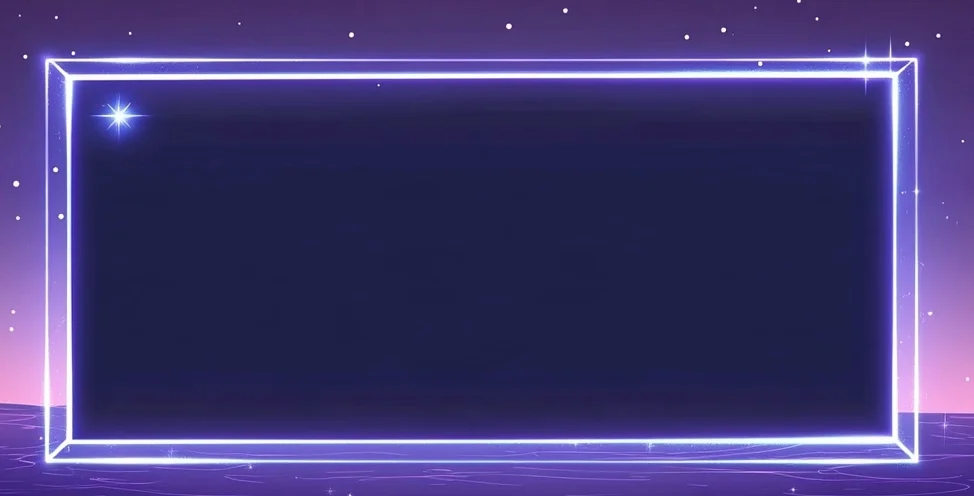
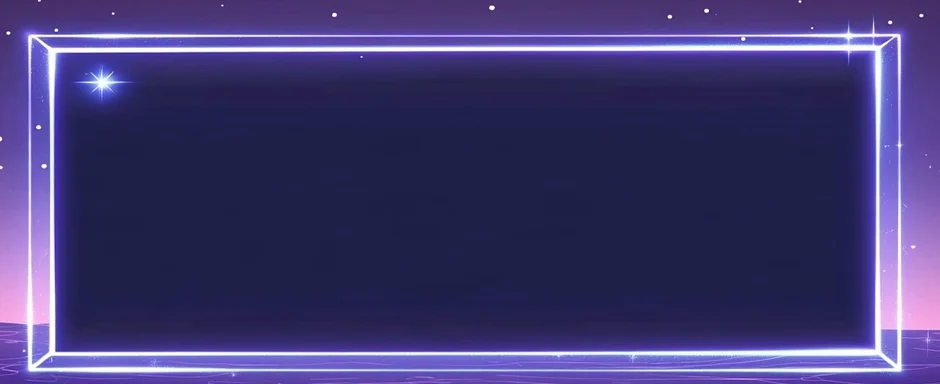
the rare row joins the family shape (Skylar 9/30: 'why does the blue one look so much larger') — every rare glass rolled ~2:1 vs kin 2.4-3.1, so the featured cut is cropped tight and re-proportioned to 940x384 (~0.83 vertical, invisible on straight glass); panel 12/18/76/60; shape note on the page; 

Changed region(s): [[0.0, 0.0625, 1.0, 1.0]]

diff --git a/index.html b/index.html
@@ -278,7 +278,10 @@
   "more rectangular" roll to match. <b>9/30:</b> the subscription renewed and the reroll fired — four true
   rectangles this time; the rows below wear <b>FRAME 3</b> provisionally (thin straight edges, sharp corners,
   the coolest blue of the roll). The chip below rules it — the 9/13 roll and the glass roll stand flagged as
-  the record.</p>
+  the record. <b>Shape note (Skylar 9/30: "why does the blue one look so much larger"):</b> MJ drew every rare
+  glass near 2:1 while its kin run 2.4–3.1, so the row towered — the featured cut is now cropped tight to the
+  frame and <b>re-proportioned to the family's shape</b> (940×384, ~0.83 vertical; straight glass takes it
+  invisibly). The alternates below stay the roll's untouched record.</p>
 
   <div class="stage">
     <div style="flex:0 0 auto;width:min(350px,100%);margin:0 auto">
@@ -290,8 +293,8 @@
             <div class="roundel"><span>❦</span></div>
             <div class="rowtx"><div class="nm">EMBER QUILL</div><div class="ds">Every word deals +4 damage.</div></div>
           </div></div>
-        <div class="sigrow" style="aspect-ratio:974/496"><img src="art/cut_rare.webp" alt="rare row — sapphire crystal, frame only">
-          <div class="rowpanel ink-rare" style="left:12%;top:17%;width:76%;height:64%">
+        <div class="sigrow" style="aspect-ratio:940/384"><img src="art/cut_rare.webp" alt="rare row — sapphire crystal, frame only">
+          <div class="rowpanel ink-rare" style="left:12%;top:18%;width:76%;height:60%">
             <div class="roundel"><span>↯</span></div>
             <div class="rowtx"><div class="nm">STORMBINDER</div><div class="ds">Every third word you cast strikes twice.</div></div>
           </div></div>
@@ -323,8 +326,8 @@
         <div class="roundel"><span>❦</span></div>
         <div class="rowtx"><div class="nm">EMBER QUILL</div><div class="gr">COMMON · I</div><div class="ds">Every word deals +4 damage.</div></div>
       </div></div>
-    <div class="sigrow" style="aspect-ratio:974/496"><img src="art/cut_rare.webp" alt="">
-      <div class="rowpanel ink-rare" style="left:12%;top:17%;width:76%;height:64%">
+    <div class="sigrow" style="aspect-ratio:940/384"><img src="art/cut_rare.webp" alt="">
+      <div class="rowpanel ink-rare" style="left:12%;top:18%;width:76%;height:60%">
         <div class="roundel"><span>❦</span></div>
         <div class="rowtx"><div class="nm">EMBER QUILL</div><div class="gr">RARE · II</div><div class="ds">Every word deals +6 damage.</div></div>
       </div></div>
